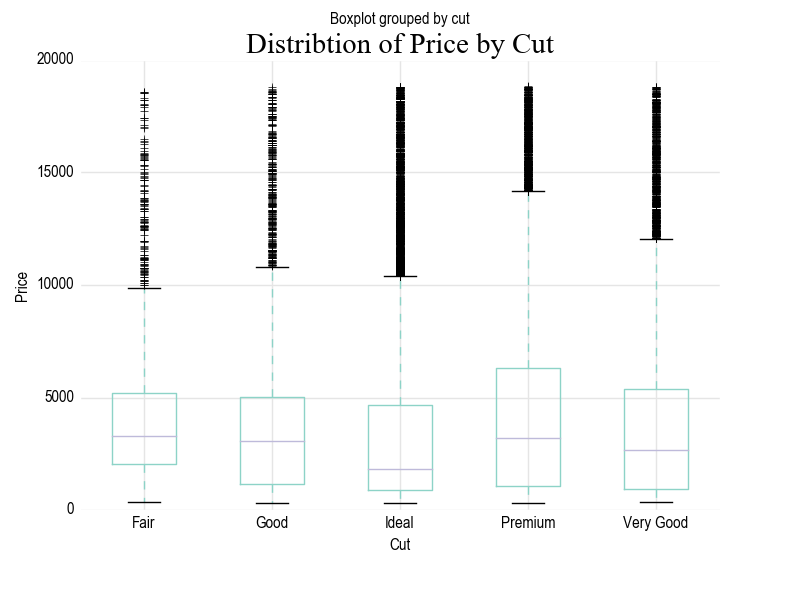
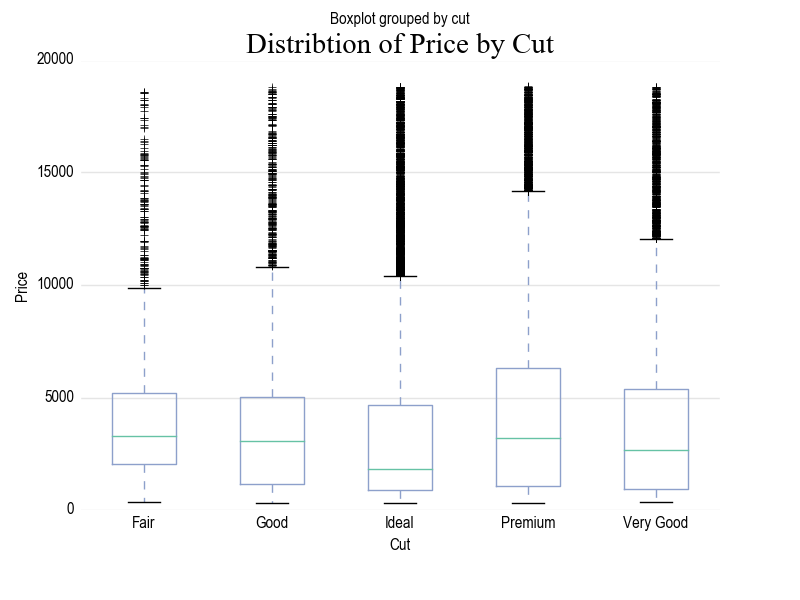
Updated examples

diff --git a/examples/standard/series.py b/examples/standard/series.py
@@ -6,7 +6,8 @@ import matplotlib.pyplot as plt
 
 import mmviz
 
-mmviz.theme_mm("line")
+matplotlib.style.use("mmviz")
+mmviz.scale_color_mm()
 
 # ts = pd.Series(np.random.randn(1000), index=pd.date_range('1/1/2000', periods=1000))
 # ts = np.exp(ts.cumsum())
@@ -15,8 +16,8 @@ mmviz.theme_mm("line")
 df = pd.DataFrame(np.random.randn(1000, 4), index=pd.date_range('1/1/2000', periods=1000), columns=list('ABCD'))
 df = df.cumsum()
 ax = df.plot()
-
-ax.set_title("Random Value Over Time", fontproperties=mmviz.TITLE_FONT_PROPERTIES)
+ax.set_title("Random Value Over Time")
+mmviz.theme_mm(ax, "line")
 
 plt.xlabel("Time")
 plt.ylabel("Value")

diff --git a/examples/diamonds/histogram_1.py b/examples/diamonds/histogram_1.py
@@ -6,7 +6,7 @@ import matplotlib.pyplot as plt
 
 import mmviz
 
-mmviz.theme_mm("histogram")
+matplotlib.style.use("mmviz")
 
 df = pd.read_csv("../data/diamonds.csv")
 
@@ -15,7 +15,8 @@ bins = mmviz.create_bin_list(df['price'], bin_width)
 
 df = df.pivot(columns='cut', values="price")
 ax = df.plot.hist(stacked=True, bins=bins)
-ax.set_title("Distribtion of Diamond Price by Cut", fontproperties=mmviz.TITLE_FONT_PROPERTIES)
+ax.set_title("Distribtion of Diamond Price by Cut")
+mmviz.theme_mm(ax, "histogram")
 
 plt.xlabel("Price (bin width = 500)")
 

diff --git a/examples/diamonds/bar_1.py b/examples/diamonds/bar_1.py
@@ -6,13 +6,14 @@ import matplotlib.pyplot as plt
 
 import mmviz
 
-mmviz.theme_mm("bar")
+matplotlib.style.use("mmviz")
 
 df = pd.read_csv("../data/diamonds.csv")
 df1 = df.groupby(['clarity', 'cut'])['price'].count().reset_index().pivot(index='clarity', columns='cut', values="price")
 
 ax = df1.plot.bar(stacked = True, rot=0)
-ax.set_title("Diamonds by Clarity and Cut", fontproperties=mmviz.TITLE_FONT_PROPERTIES)
+ax.set_title("Diamonds by Clarity and Cut")
+mmviz.theme_mm(ax, "bar")
 
 plt.xlabel("Clarity")
 plt.ylabel("Frequency")

diff --git a/examples/diamonds/histogram.py b/examples/diamonds/histogram.py
@@ -6,14 +6,15 @@ import matplotlib.pyplot as plt
 
 import mmviz
 
-mmviz.theme_mm("histogram")
+matplotlib.style.use("mmviz")
 
 df = pd.read_csv("../data/diamonds.csv")
 
 bins = mmviz.create_bin_list(df['price'], 500)
 
 ax = df["price"].plot.hist(bins=bins)
-ax.set_title("Distribtion of Diamond Price", fontproperties=mmviz.TITLE_FONT_PROPERTIES)
+ax.set_title("Distribtion of Diamond Price")
+mmviz.theme_mm(ax, "histogram")
 
 plt.xlabel("Price (bin width = 500)")
 

diff --git a/examples/diamonds/bar.py b/examples/diamonds/bar.py
@@ -6,14 +6,15 @@ import matplotlib.pyplot as plt
 
 import mmviz
 
-mmviz.theme_mm("bar")
+matplotlib.style.use("mmviz")
 
 df = pd.read_csv("../data/diamonds.csv")
 df1 = df.groupby('clarity').size()
 df1.sort_values(ascending=False, inplace=True)
 
 ax = df1.plot.bar(rot=0)
-ax.set_title("Diamonds by Clarity", fontproperties=mmviz.TITLE_FONT_PROPERTIES)
+ax.set_title("Diamonds by Clarity")
+mmviz.theme_mm(ax, "bar")
 
 plt.xlabel("Clarity")
 plt.ylabel("Frequency")

diff --git a/examples/diamonds/box_1.py b/examples/diamonds/box_1.py
@@ -6,12 +6,13 @@ import matplotlib.pyplot as plt
 
 import mmviz
 
-mmviz.theme_mm("box")
+matplotlib.style.use("mmviz")
 
 df = pd.read_csv("../data/diamonds.csv")
 
 ax = df[['cut','price']].boxplot(by="cut", column = "price")
-ax.set_title("Distribtion of Price by Cut", fontproperties=mmviz.TITLE_FONT_PROPERTIES)
+ax.set_title("Distribtion of Price by Cut")
+mmviz.theme_mm(ax, "box")
 
 plt.xlabel("Cut")
 plt.ylabel("Price")

diff --git a/examples/diamonds/box.py b/examples/diamonds/box.py
@@ -6,11 +6,12 @@ import matplotlib.pyplot as plt
 
 import mmviz
 
-mmviz.theme_mm("box")
+matplotlib.style.use("mmviz")
 
 df = pd.read_csv("../data/diamonds.csv")
 ax = df["price"].plot.box()
-ax.set_title("Distribtion of Price", fontproperties=mmviz.TITLE_FONT_PROPERTIES)
+ax.set_title("Distribtion of Price")
+mmviz.theme_mm(ax, "box")
 
 plt.xlabel("")
 plt.ylabel("Price")

diff --git a/examples/diamonds/histogram_2.py b/examples/diamonds/histogram_2.py
@@ -6,6 +6,6 @@ import matplotlib.pyplot as plt
 
 import mmviz
 
-mmviz.theme_mm("histogram")
+matplotlib.style.use("mmviz")
 
 df = pd.read_csv("../data/diamonds.csv")
